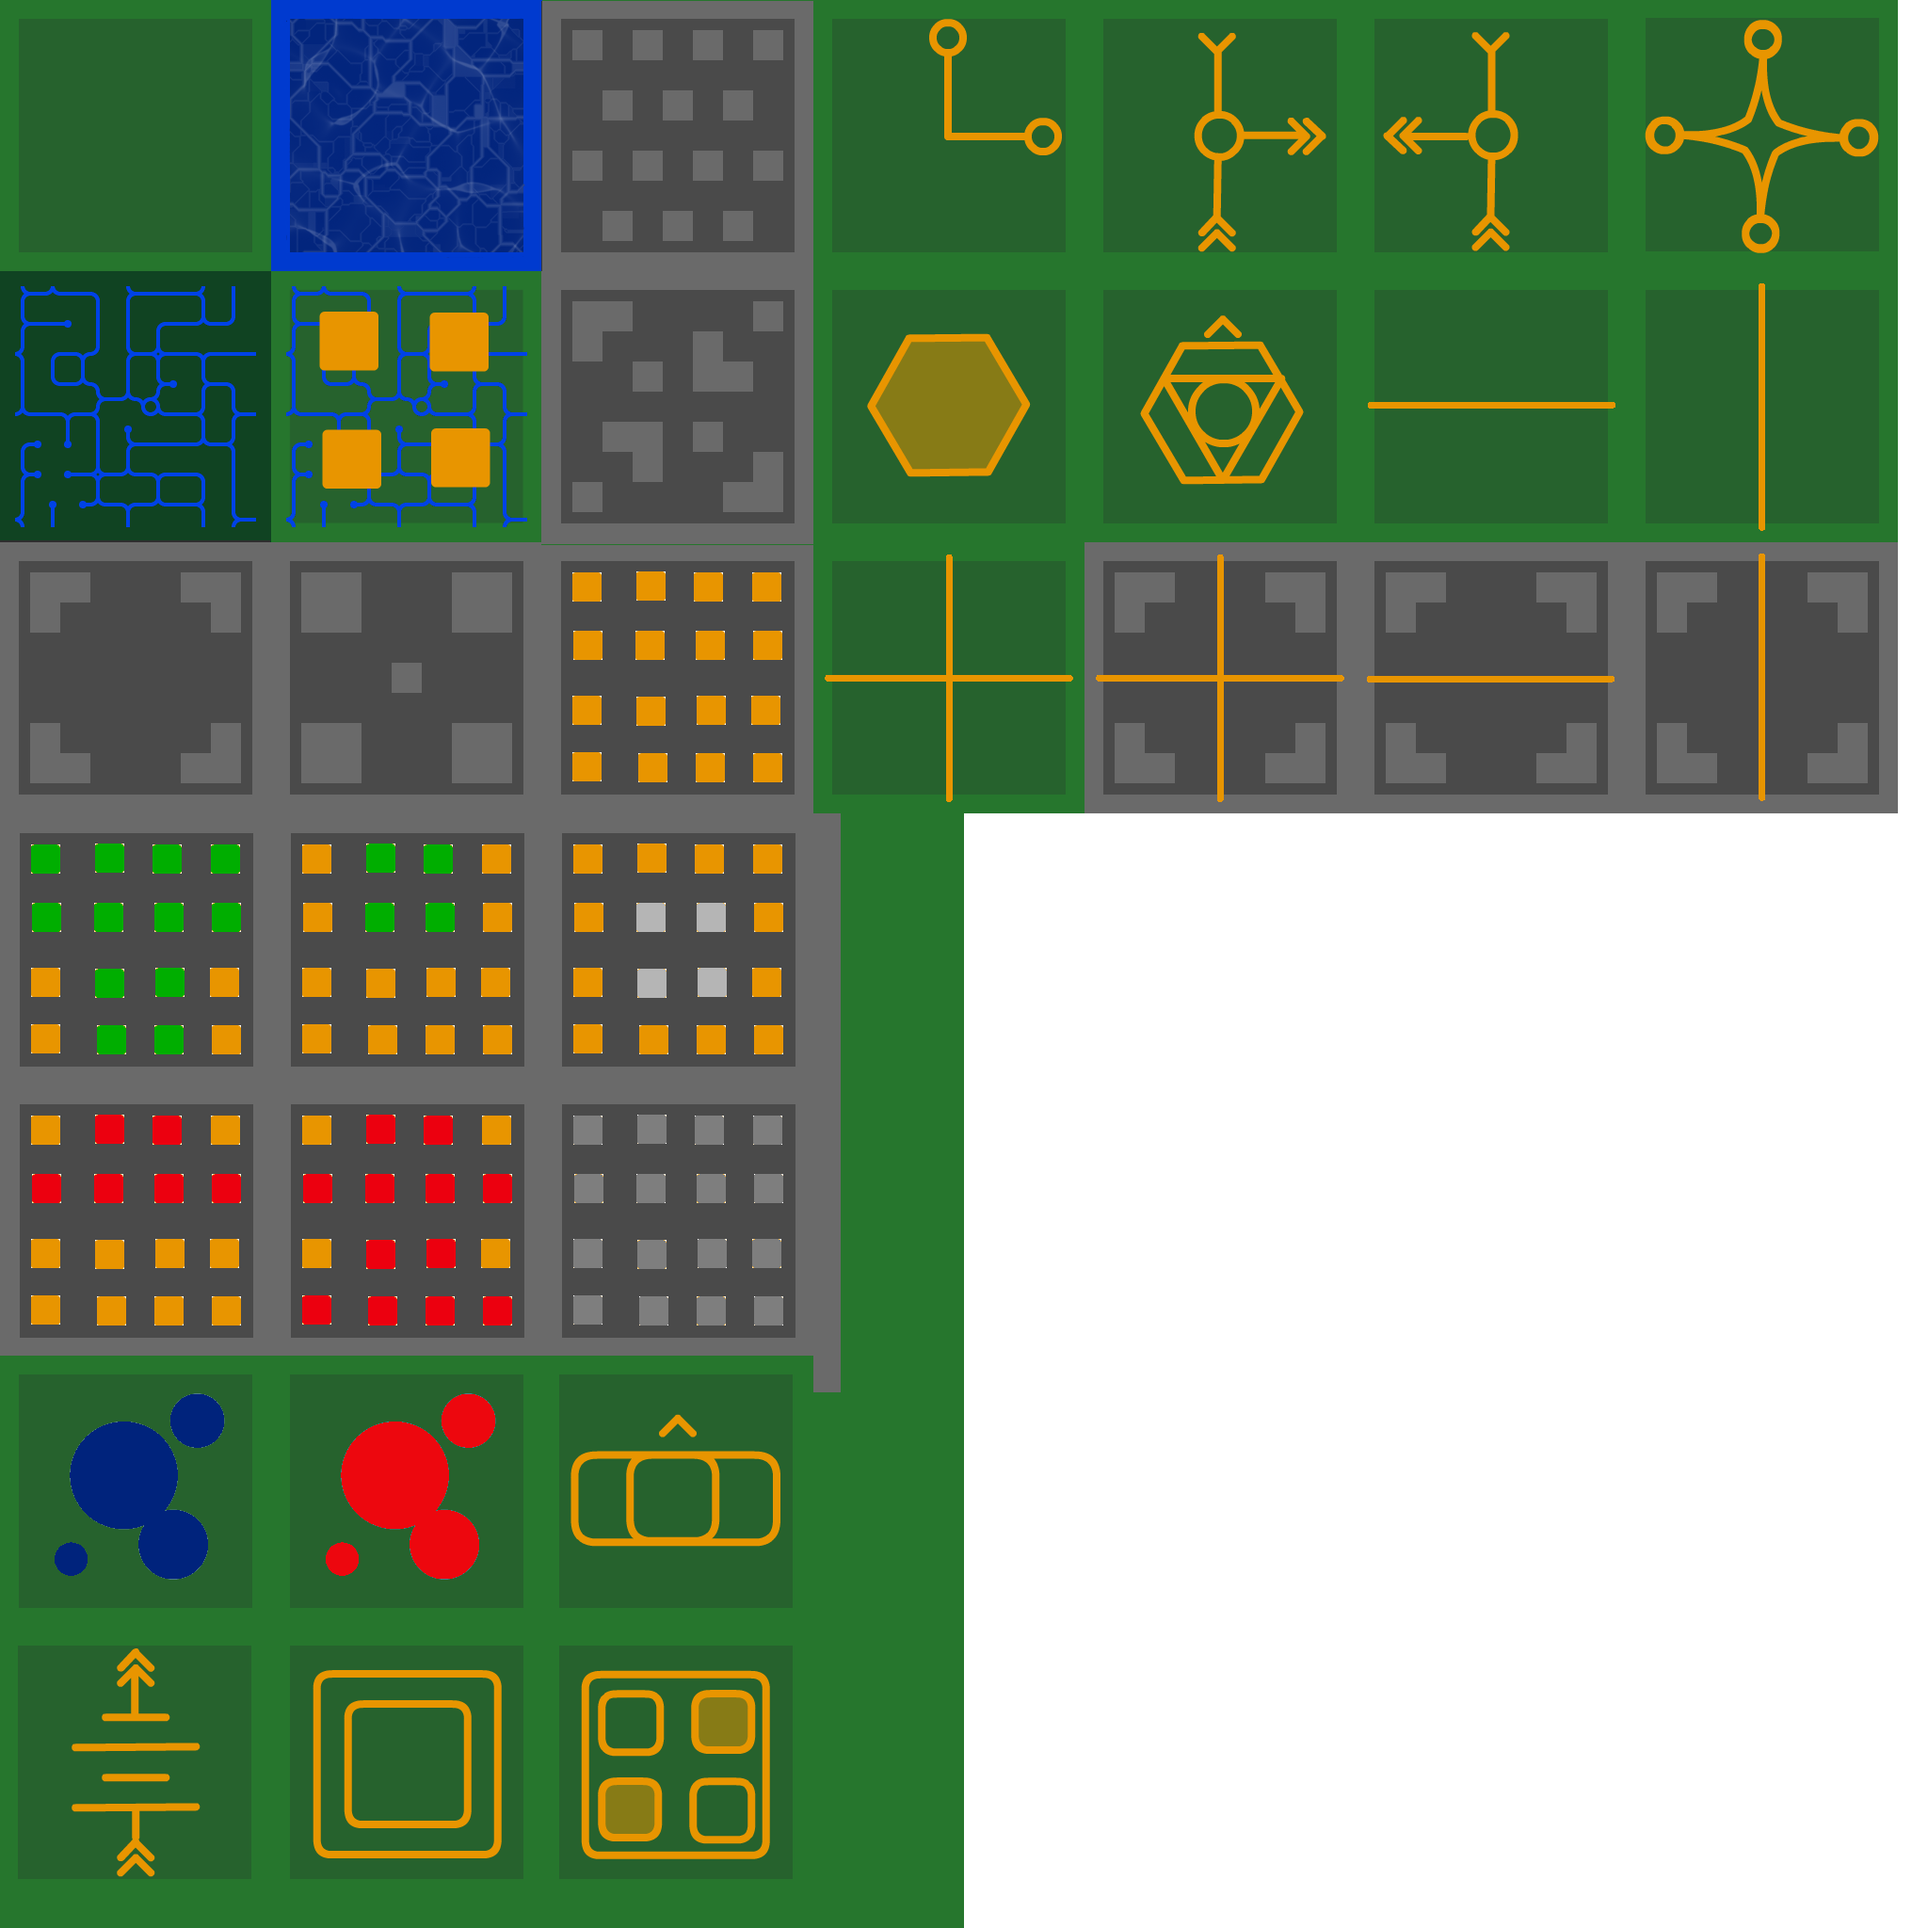
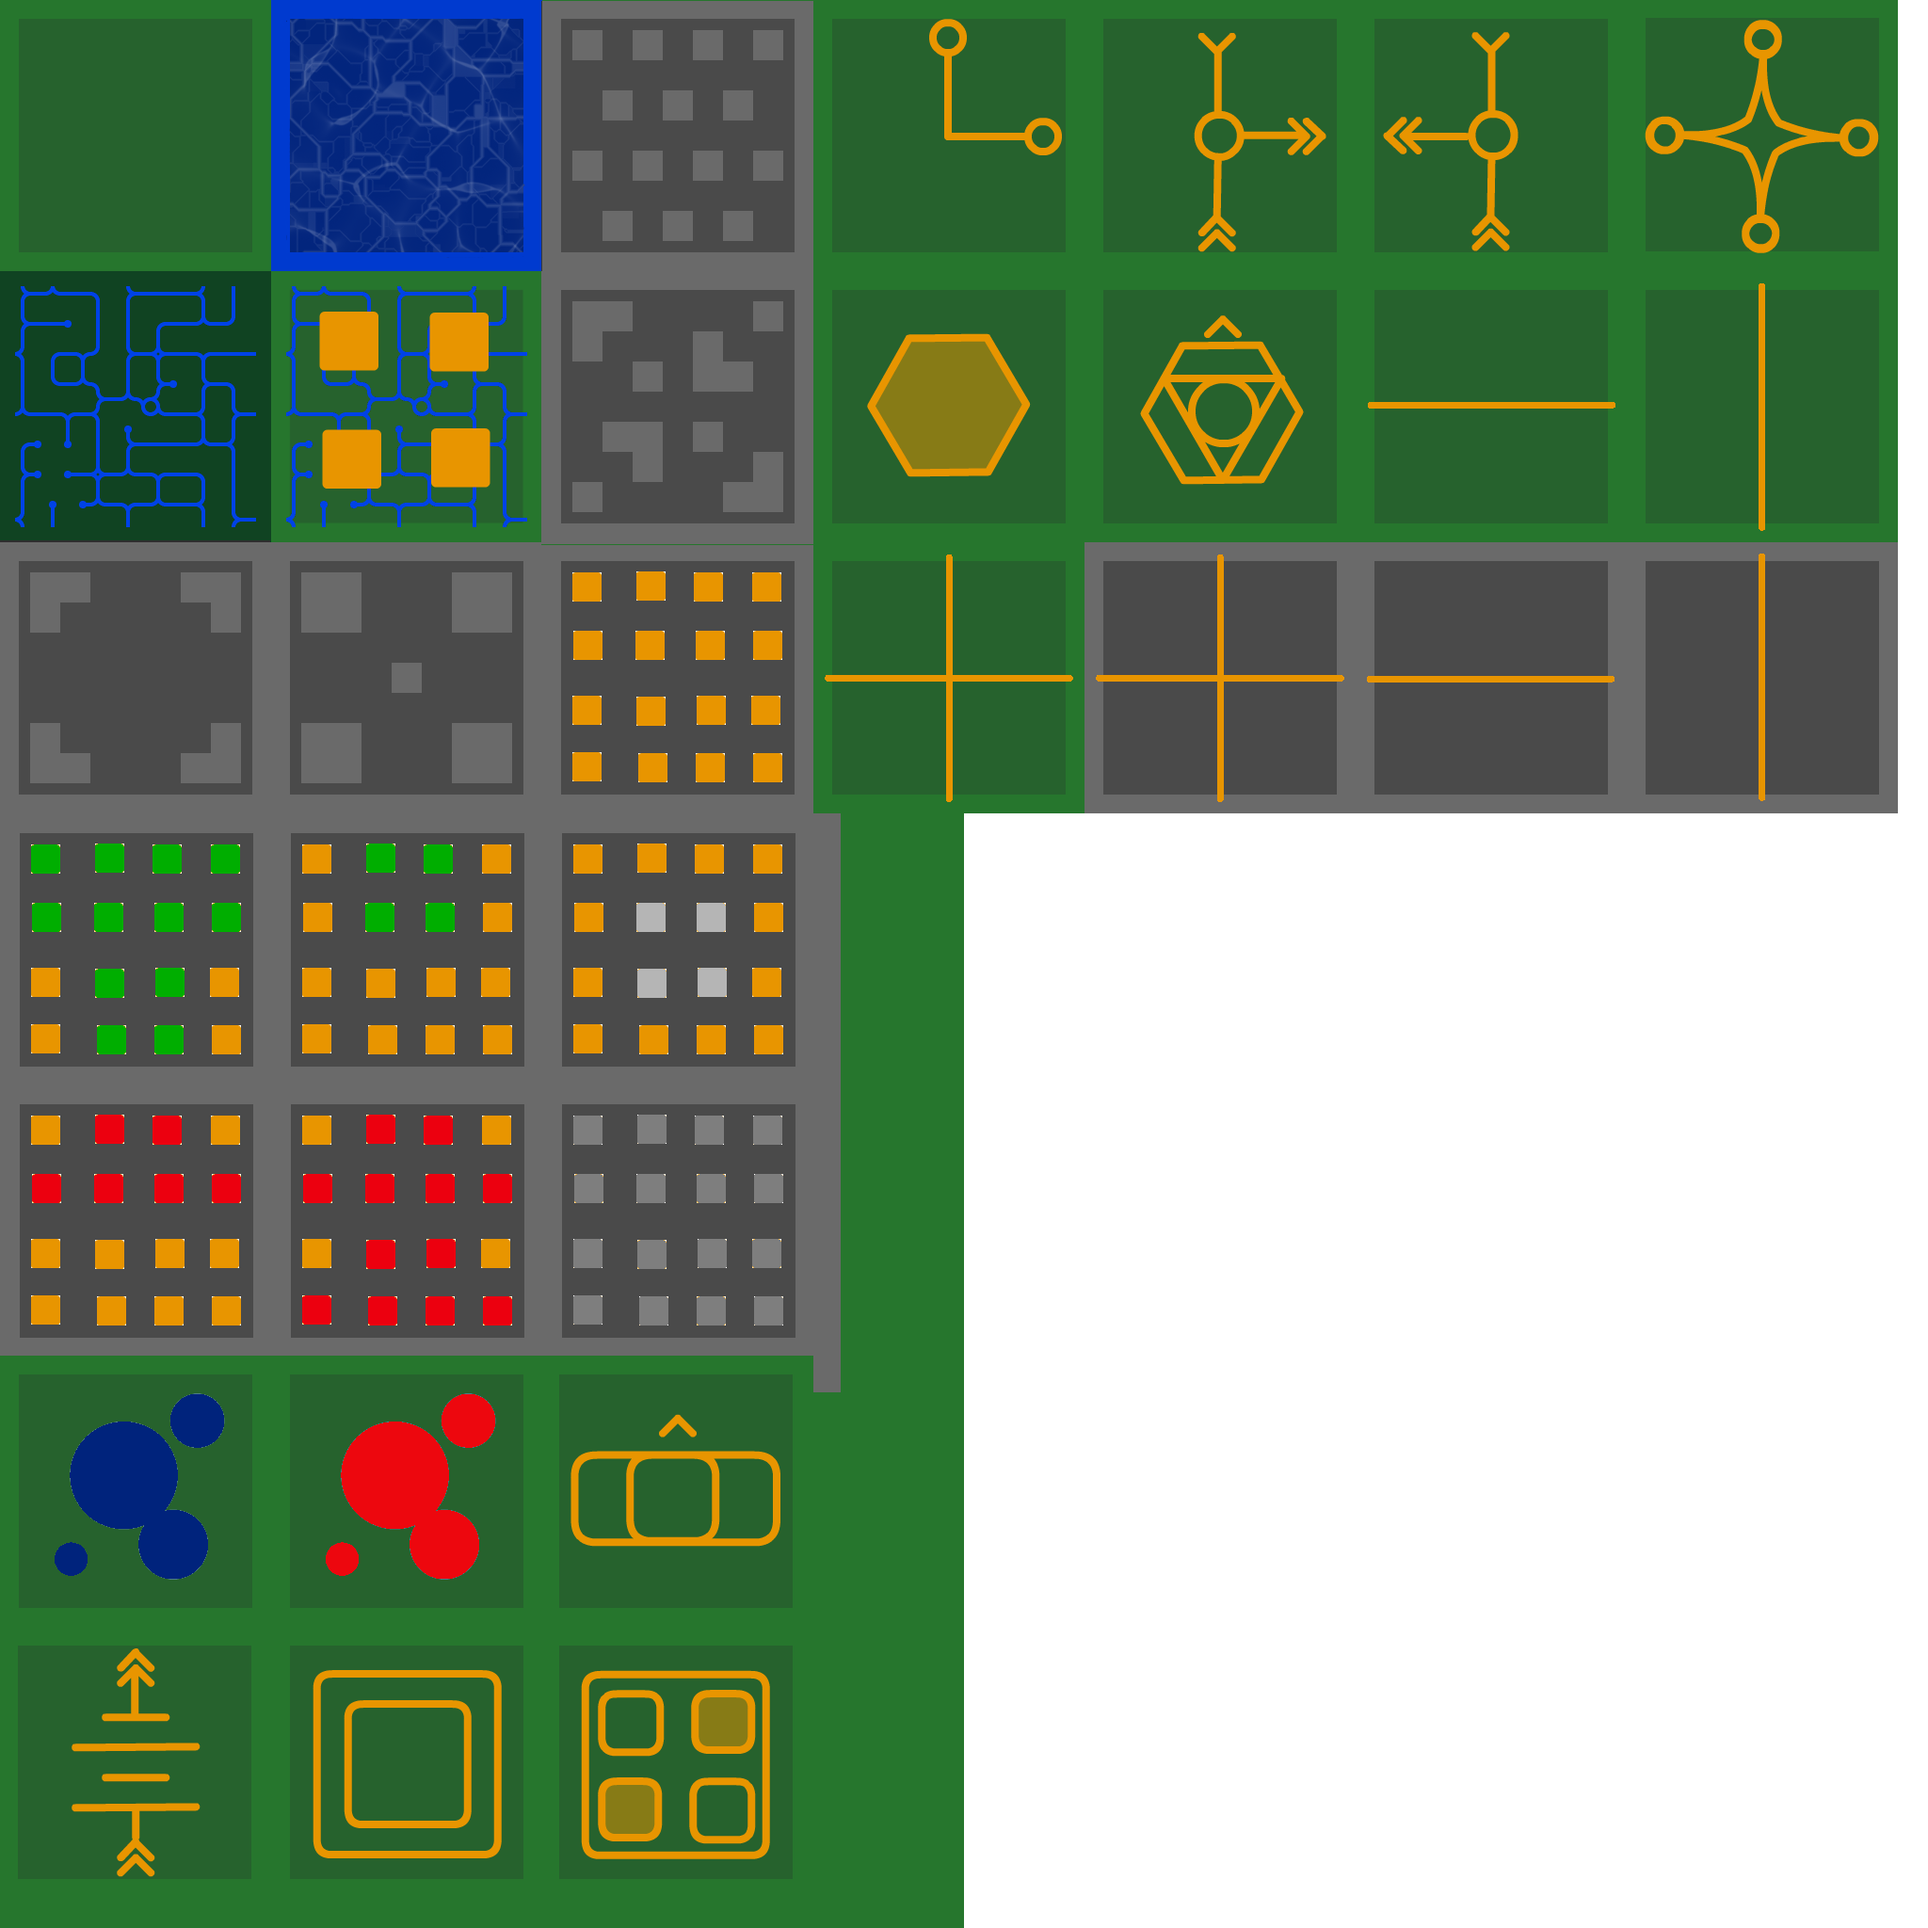
bug fixes

diff --git a/game/aicomponent.cpp b/game/aicomponent.cpp
@@ -953,8 +953,11 @@ bool AIComponent::ThinkDoRampage( const ComponentSet& thisComp )
 				context->engine->particleSystem->EmitPD(ISC::teleport, ToWorld3F(csPos2i), V3F_UP, 0);
 				thisComp.spatial->SetPosition(ToWorld3F(csPos2i));
 			}
+			if (csPos2i == pos2i) {
+				destinationBlocked = 0;
+			}
 		}
-		// Done weather we can teleport or not.
+		// Done whether we can teleport or not.
 		return true;
 	}
 
@@ -1243,7 +1246,14 @@ bool AIComponent::SectorHerd(const ComponentSet& thisComp, bool focus)
 
 	const ChitContext* context = Context();
 	const Vector2F pos = thisComp.spatial->GetPosition2D();
+	const SectorData& sd = context->worldMap->GetWorldInfo().GetSector(ToSector(pos));
 	const SectorPort start = context->worldMap->NearestPort(pos);
+	//Sometimes we can't path to any port. Hopefully rampage cuts in.
+	//GLASSERT(start.IsValid());
+	if (!start.IsValid()) {
+		return false;
+	}
+
 	IString mob = thisComp.item->keyValues.GetIString("mob");
 	Vector2I sector = ToSector(ToWorld2I(pos));
 
@@ -1268,12 +1278,16 @@ bool AIComponent::SectorHerd(const ComponentSet& thisComp, bool focus)
 								delta.Push(rinit[i]);
 							}
 						}
-						else if (tech >= TECH_ATTRACTS_LESSER) delta.Insert(0, rinit[i]);
-						else delta.Push(rinit[i]);
+						else if (tech >= TECH_ATTRACTS_LESSER) 
+							delta.Insert(0, rinit[i]);
+						else 
+							delta.Push(rinit[i]);
 					}
 					else if (mob == IStringConst::greater) {
-						if (tech >= TECH_ATTRACTS_GREATER) delta.Insert(0, rinit[i]);
-						else if (tech > TECH_REPELS_GREATER) delta.Push(rinit[i]);
+						if (tech >= TECH_ATTRACTS_GREATER) 
+							delta.Insert(0, rinit[i]);
+						else if (tech > TECH_REPELS_GREATER) 
+							delta.Push(rinit[i]);
 						// else push nothing
 					}
 					else {

diff --git a/game/worldmap.cpp b/game/worldmap.cpp
@@ -1529,7 +1529,7 @@ SectorPort WorldMap::RandomPort( grinliz::Random* random )
 
 SectorPort WorldMap::NearestPort( const Vector2F& pos )
 {
-	Vector2I secPos = { (int)pos.x / SECTOR_SIZE, (int)pos.y / SECTOR_SIZE };
+	Vector2I secPos = ToSector(pos);
 	const SectorData& sd = worldInfo->GetSector( secPos );
 
 	int   bestPort = 0;
@@ -2060,8 +2060,16 @@ void WorldMap::PrepGrid( const SpaceTree* spaceTree )
 					}
 					else if ( layer == WorldGrid::LAND ) {
 						if (wg.Circuit()) {
-							layer = CIRCUIT + wg.Circuit() - 1;
+							int circuit = wg.Circuit();
+							layer = CIRCUIT + circuit - 1;
 							rotation = wg.CircuitRot();
+							if (circuit >= CIRCUIT_LINE_NS_GREEN && circuit <= CIRCUIT_LINE_CROSS_PAVE) {
+								int pave = wg.Pave();
+								if (pave && circuit < CIRCUIT_LINE_NS_PAVE)
+									layer += 3;
+								else if (!pave && circuit >= CIRCUIT_LINE_NS_PAVE)
+									layer -= 3;
+							}
 						}
 						else if (wg.Porch()) {
 							layer = PORCH + wg.Porch() - 1;
@@ -2080,8 +2088,8 @@ void WorldMap::PrepGrid( const SpaceTree* spaceTree )
 					vArr[2].pos.Set( fx+1.0f,	0, fy+1.0f );
 					vArr[3].pos.Set( fx+1.0f,	0, fy );
 
-					vArr[(0 + rotation)&3].tex.Set( UV[layer].x,		UV[layer].y );
-					vArr[(1 + rotation)&3].tex.Set( UV[layer].x,		UV[layer].y+dv );
+					vArr[(0 + rotation)&3].tex.Set( UV[layer].x,	UV[layer].y );
+					vArr[(1 + rotation)&3].tex.Set( UV[layer].x,	UV[layer].y+dv );
 					vArr[(2 + rotation)&3].tex.Set( UV[layer].x+du,	UV[layer].y+dv );
 					vArr[(3 + rotation)&3].tex.Set( UV[layer].x+du,	UV[layer].y );
 

diff --git a/xegame/istringconst.cpp b/xegame/istringconst.cpp
@@ -53,6 +53,7 @@ IString IStringConst::derezWAV;
 IString IStringConst::explosionWAV;
 IString IStringConst::boltimpactWAV;
 IString IStringConst::buttonWAV;
+IString IStringConst::blasterWAV;
 IString IStringConst::pave;
 IString IStringConst::ice;
 IString IStringConst::core;
@@ -159,6 +160,7 @@ void IStringConst::Init()
 	explosionWAV = StringPool::Intern( "explosionWAV", true );
 	boltimpactWAV = StringPool::Intern( "boltimpactWAV", true );
 	buttonWAV = StringPool::Intern( "buttonWAV", true );
+	blasterWAV = StringPool::Intern( "blasterWAV", true );
 	pave = StringPool::Intern( "pave", true );
 	ice = StringPool::Intern( "ice", true );
 	core = StringPool::Intern( "core", true );

diff --git a/scenes/gamescene.cpp b/scenes/gamescene.cpp
@@ -1875,7 +1875,8 @@ void GameScene::DrawDebugText()
 	}
 	if ( !voxelInfoID.IsZero() ) {
 		const WorldGrid& wg = sim->GetWorldMap()->GetWorldGrid( voxelInfoID.x, voxelInfoID.y );
-		ufoText->Draw( x, y, "voxel=%d,%d hp=%d/%d circuit=%d circRot=%d", voxelInfoID.x, voxelInfoID.y, wg.HP(), wg.TotalHP(), wg.Circuit(), wg.CircuitRot() );
+		ufoText->Draw( x, y, "voxel=%d,%d hp=%d/%d pave=%d circuit=%d circRot=%d", 
+					   voxelInfoID.x, voxelInfoID.y, wg.HP(), wg.TotalHP(), wg.Pave(), wg.Circuit(), wg.CircuitRot() );
 		y += 16;
 	}
 }

diff --git a/game/lumoschitbag.cpp b/game/lumoschitbag.cpp
@@ -454,7 +454,7 @@ Chit* LumosChitBag::NewWorkerChit( const Vector3F& pos, int team )
 	chit->GetSpatialComponent()->SetPosition( pos );
 	AddItem( rootItem.Name(), chit, context->engine, team, 0 );
 	chit->Add( new HealthComponent());
-	chit->Add( new DebugStateComponent());
+	//chit->Add( new DebugStateComponent());
 
 	if (XenoAudio::Instance()) {
 		XenoAudio::Instance()->PlayVariation(ISC::rezWAV, random.Rand(), &pos);

diff --git a/game/circuitsim.cpp b/game/circuitsim.cpp
@@ -337,7 +337,7 @@ void CircuitSim::ApplyPowerUp(const grinliz::Vector2I& pos, int charge)
 			Vector3F trigger = { 0, 0, 0 };
 			rc->CalcTrigger(&trigger, 0);
 
-			XenoAudio::Instance()->PlayVariation(ISC::blaster, building->ID(), &trigger);
+			XenoAudio::Instance()->PlayVariation(ISC::blasterWAV, building->ID(), &trigger);
 
 			chitBag->NewBolt(trigger, straight, dd.effects, building->ID(),
 							 dd.damage,

diff --git a/game/lumosmath.h b/game/lumosmath.h
@@ -62,6 +62,12 @@ inline grinliz::Vector2I ToSector( int x, int y ) {
 	return ToSector( pos2i );
 }
 
+inline grinliz::Vector2I ToSector(const grinliz::Vector2F& pos2) {
+	grinliz::Vector2I v = ToWorld2I(pos2);
+	return ToSector(v);
+}
+
+
 inline grinliz::Rectangle2I SectorBounds( const grinliz::Vector2I& sector ) {
 	grinliz::Rectangle2I r;
 	r.Set( sector.x*SECTOR_SIZE, sector.y*SECTOR_SIZE,

diff --git a/ai/tasklist.cpp b/ai/tasklist.cpp
@@ -337,6 +337,9 @@ void TaskList::DoTasks(Chit* chit, U32 delta)
 			if (wg.Circuit() == CIRCUIT_SWITCH) {
 				context->circuitSim->TriggerSwitch(pos2i);
 			}
+			else if (wg.Circuit() == CIRCUIT_DETECT_ENEMY) {
+				context->circuitSim->TriggerDetector(pos2i);
+			}
 			// FIXME: what about flags in other domains?
 			coreScript->RemoveFlag(pos2i);
 			Remove();

diff --git a/xegame/istringconst.h b/xegame/istringconst.h
@@ -78,6 +78,7 @@ public:
 	static grinliz::IString explosionWAV;
 	static grinliz::IString boltimpactWAV;
 	static grinliz::IString buttonWAV;
+	static grinliz::IString blasterWAV;
 
 	static grinliz::IString pave;
 	static grinliz::IString ice;

diff --git a/game/worldgrid.h b/game/worldgrid.h
@@ -162,7 +162,6 @@ public:
 	void SetCircuit(int id) {
 		circuit = 0;
 		if (id) {
-			pave = 0;
 			circuit = id;
 			GLASSERT(circuit == id);
 		}
